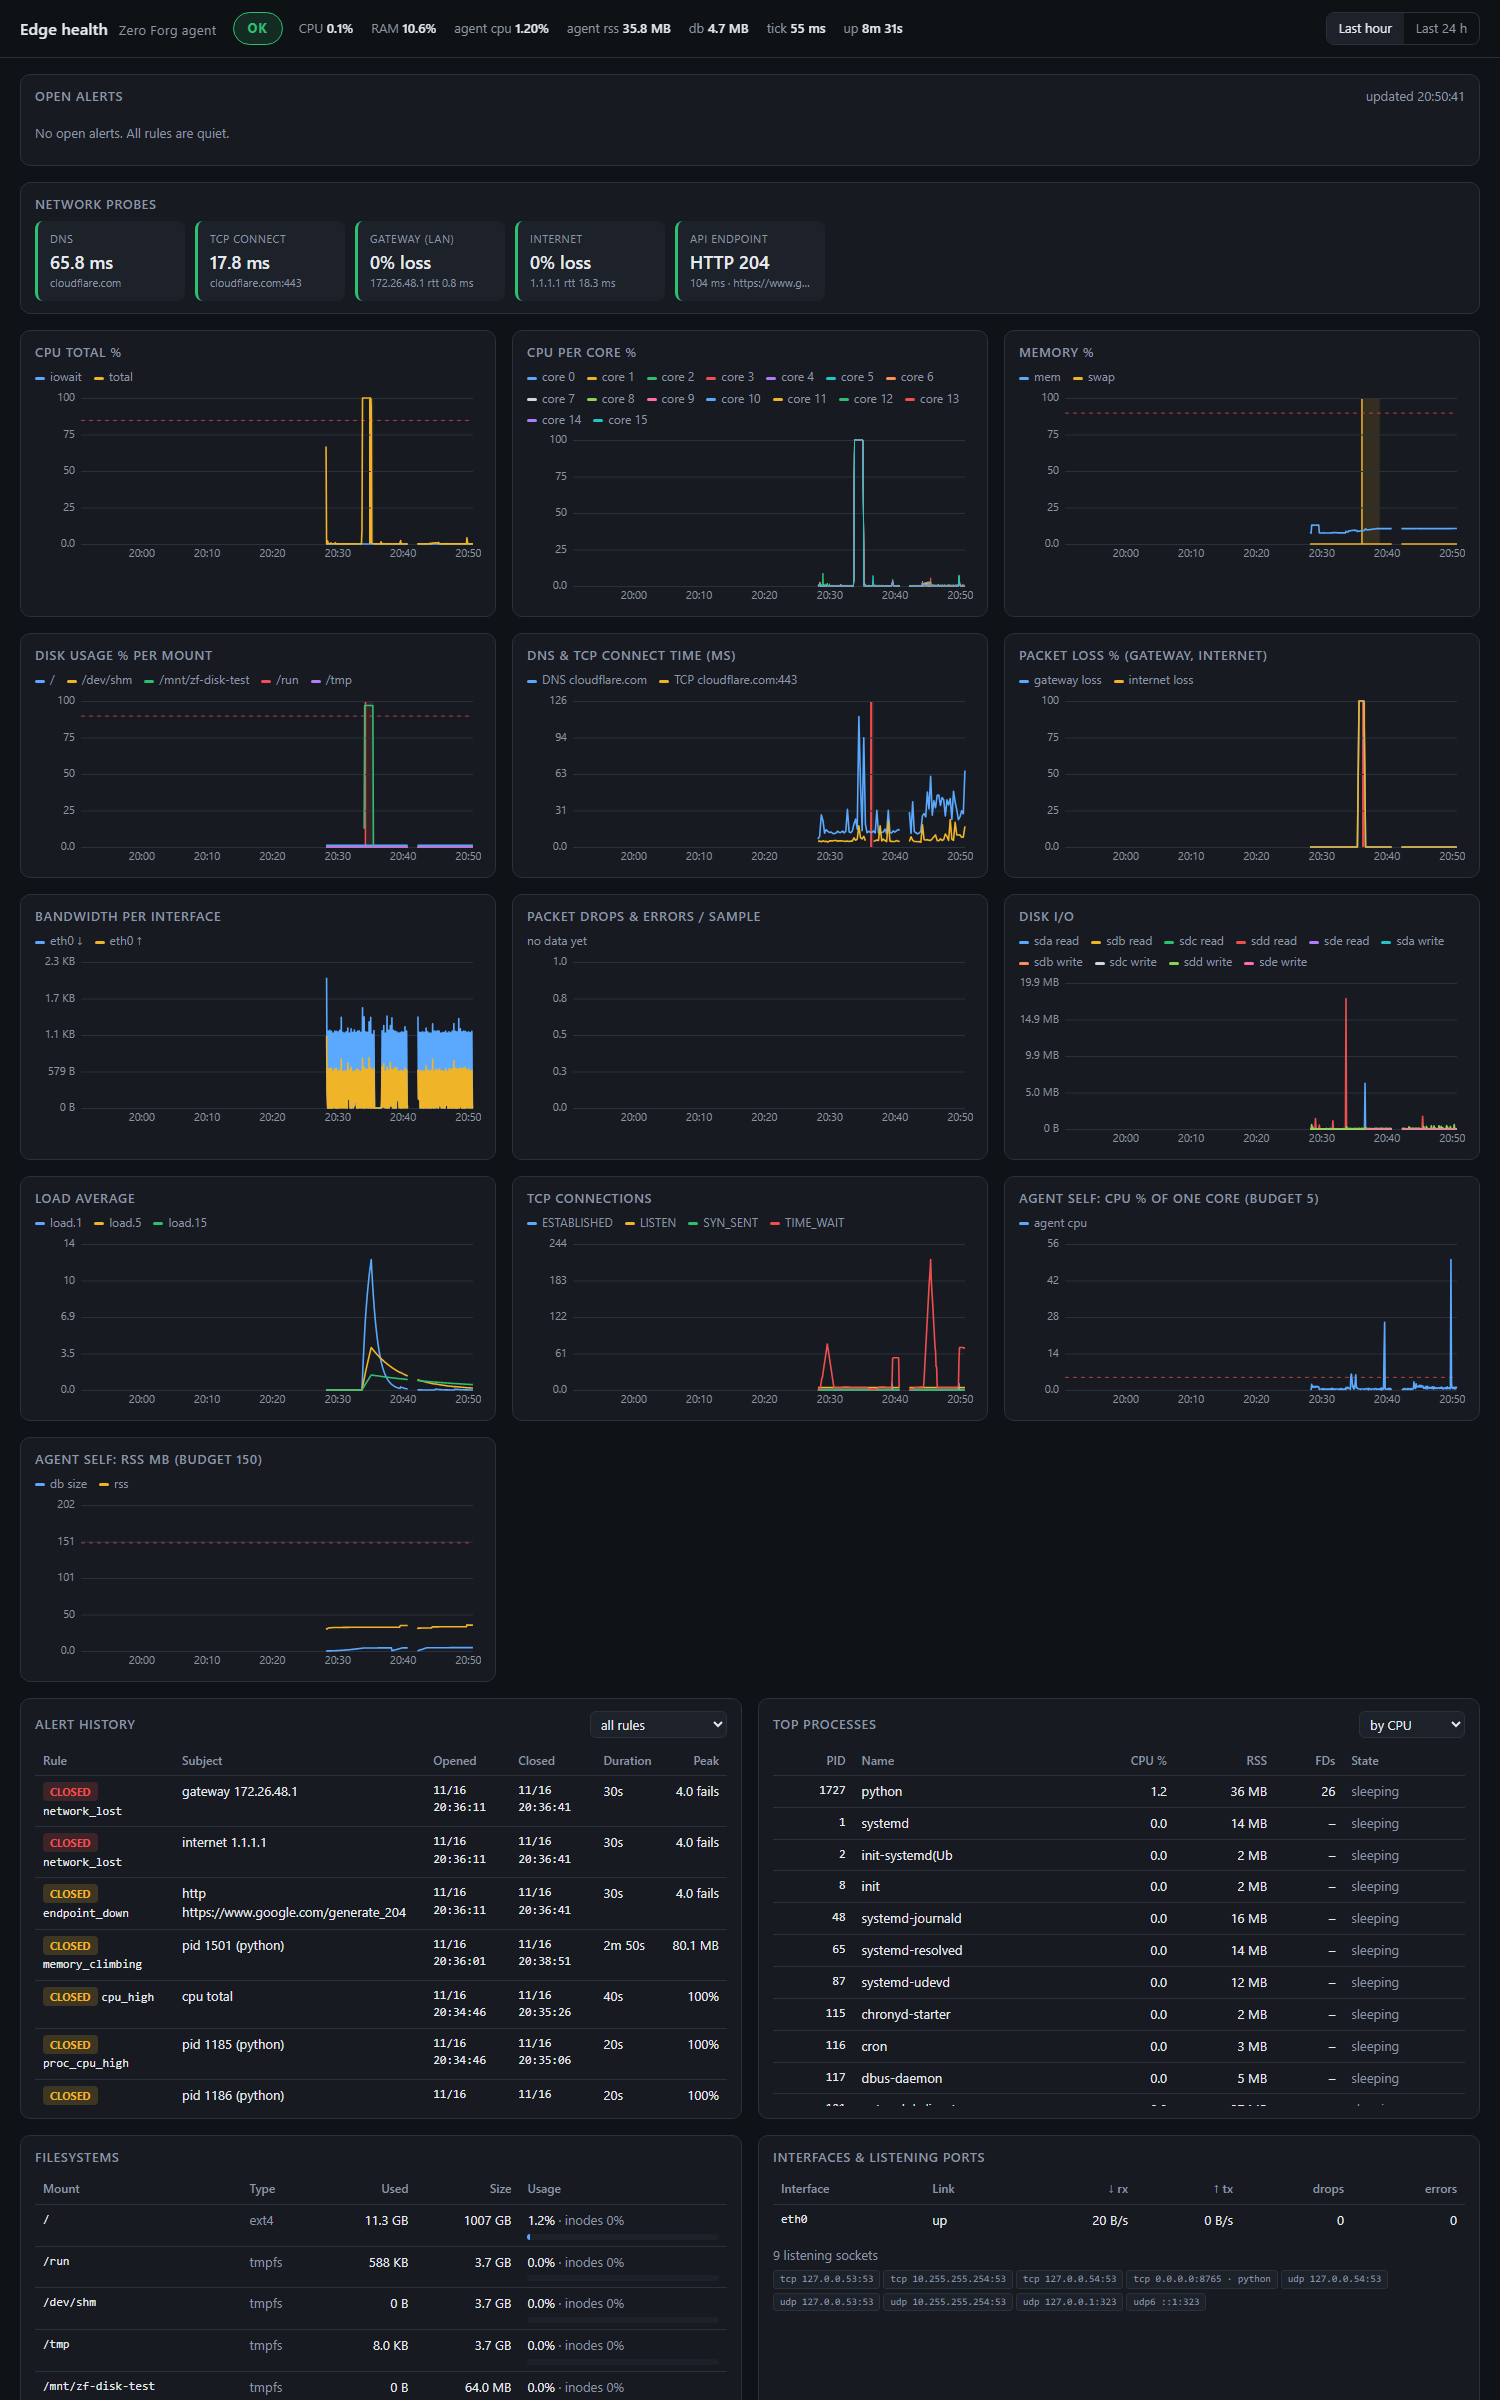
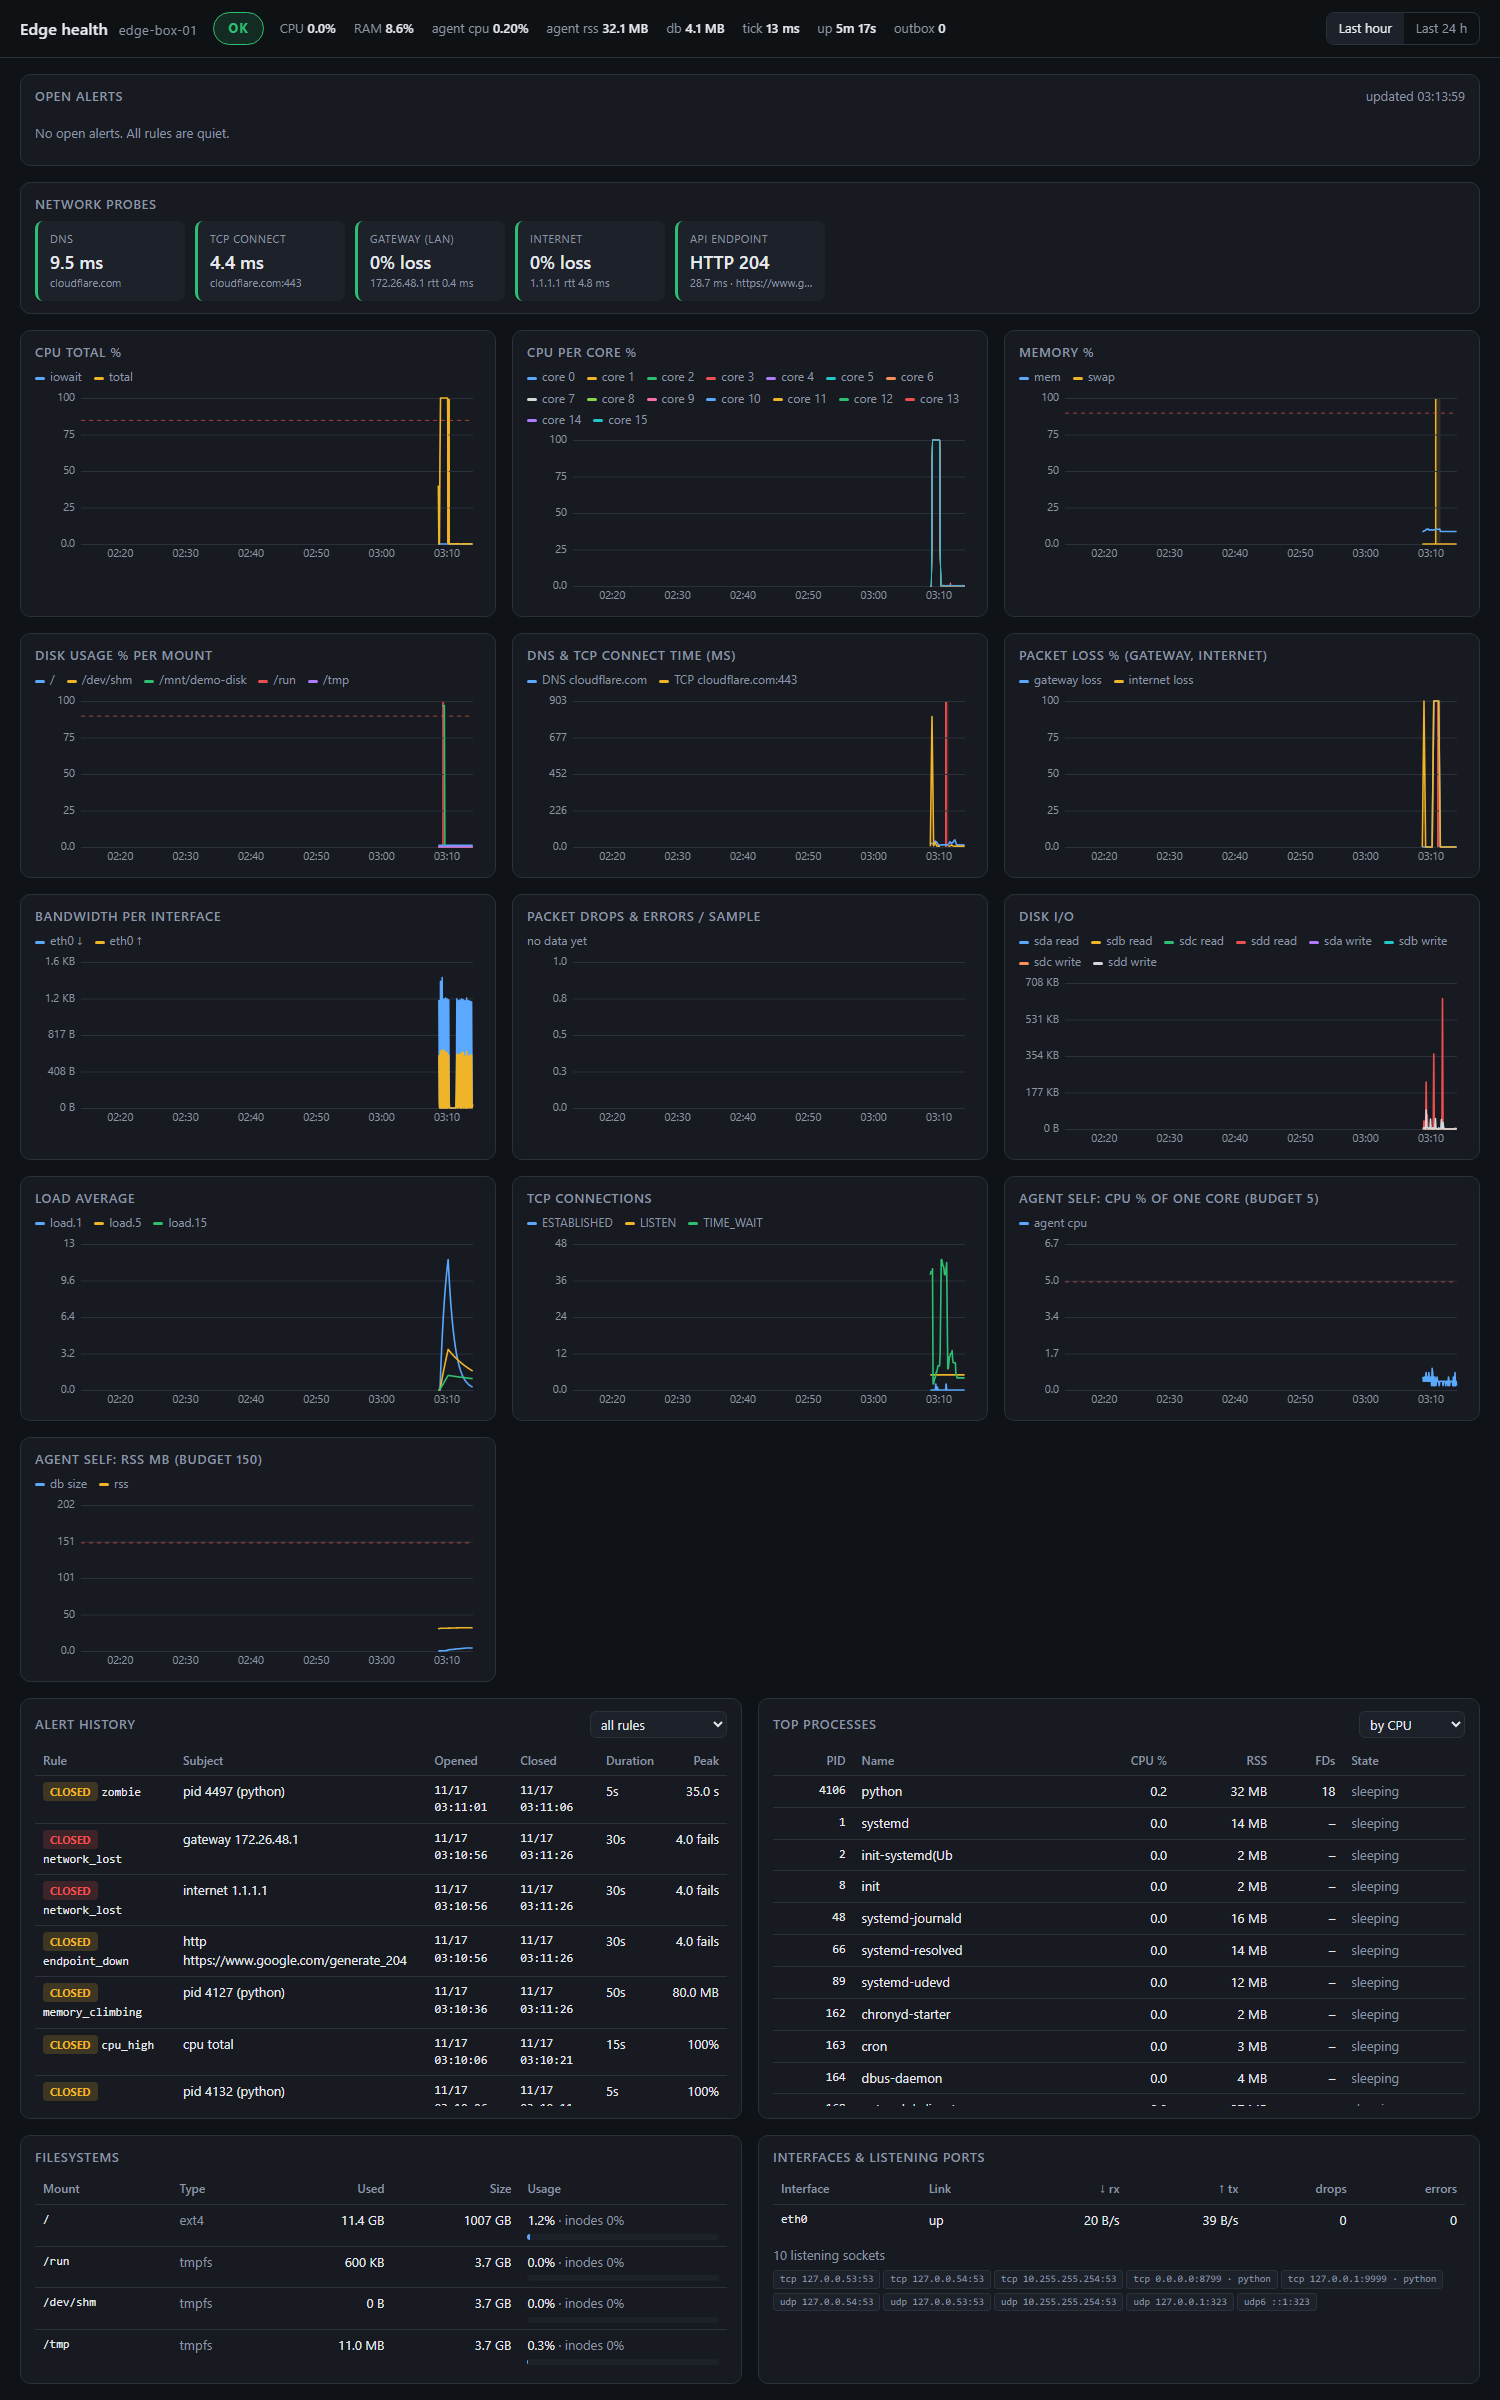
Rename project to Edge Health Agent
Neutral name in the README, dashboard, package metadata, systemd unit, User-Agent and demo scripts, with one line noting the project's origin as a take-home assignment. Demo config uses a fixed box name so screenshots do not show the hostname. Refreshed docs/dashboard.png.

diff --git a/healthagent/static/index.html b/healthagent/static/index.html
@@ -3,7 +3,7 @@
 <head>
 <meta charset="utf-8">
 <meta name="viewport" content="width=device-width, initial-scale=1">
-<title>Edge health · Zero Forg</title>
+<title>Edge Health Agent</title>
 <style>
   :root {
     --bg: #0f1216; --panel: #171b21; --panel2: #1d222a; --line: #2a313b; --text: #e6e9ee;
@@ -67,7 +67,7 @@
 </head>
 <body>
 <header>
-  <h1>Edge health <small id="host">Zero Forg agent</small></h1>
+  <h1>Edge health <small id="host">connecting…</small></h1>
   <span id="badge" class="badge b-down">CONNECTING</span>
   <div class="stats" id="stats"></div>
   <div class="spacer"></div>
@@ -328,7 +328,7 @@ async function refreshHealth() {
   $("badge").className = "badge b-" + h.status; $("badge").textContent = h.status.toUpperCase();
   document.title = `${h.status.toUpperCase()} · Edge health`;
   const a = h.agent, s = h.summary;
-  $("host").textContent = a.name || "Zero Forg agent";
+  $("host").textContent = a.name || "edge box";
   const stats = [
     ["CPU", s.cpu_pct != null ? s.cpu_pct.toFixed(1) + "%" : "–"],
     ["RAM", s.mem_pct != null ? s.mem_pct.toFixed(1) + "%" : "–"],

diff --git a/healthagent/__main__.py b/healthagent/__main__.py
@@ -15,7 +15,7 @@ PORT_IN_USE = {errno.EADDRINUSE, getattr(errno, "WSAEADDRINUSE", errno.EADDRINUS
 
 
 def main(argv: list[str] | None = None) -> int:
-    ap = argparse.ArgumentParser(prog="healthagent", description="Zero Forg edge health agent")
+    ap = argparse.ArgumentParser(prog="healthagent", description="Edge Health Agent")
     ap.add_argument("-c", "--config", help="TOML config file (defaults are used when omitted)")
     ap.add_argument("--db", help="override agent.db_path")
     ap.add_argument("--host", help="override api.host")

diff --git a/healthagent/probes.py b/healthagent/probes.py
@@ -111,7 +111,7 @@ def parse_ping(out: str, count: int, windows: bool) -> tuple[float, float | None
 
 
 def _http(url: str, timeout: float) -> tuple[float, int]:
-    req = urllib.request.Request(url, headers={"User-Agent": f"zeroforg-healthagent/{__version__}"})
+    req = urllib.request.Request(url, headers={"User-Agent": f"edge-health-agent/{__version__}"})
     t0 = time.perf_counter()
     try:
         with urllib.request.urlopen(req, timeout=timeout) as resp:

diff --git a/healthagent/notify.py b/healthagent/notify.py
@@ -90,7 +90,7 @@ class WebhookNotifier:
         body = row["payload"].encode()
         headers = {
             "Content-Type": "application/json",
-            "User-Agent": f"zeroforg-healthagent/{__version__}",
+            "User-Agent": f"edge-health-agent/{__version__}",
             "X-Healthagent-Event": row["event"],
             "X-Healthagent-Delivery": row["uid"],
         }

diff --git a/healthagent/__init__.py b/healthagent/__init__.py
@@ -1,3 +1,3 @@
-"""Zero Forg edge health agent."""
+"""Edge Health Agent."""
 
 __version__ = "1.0.0"

diff --git a/README.md b/README.md
@@ -1,7 +1,10 @@
-# Zero Forg edge health agent
+# Edge Health Agent
 
 One Python process that watches an unattended edge box and notices first when it
 fills its disk, leaks memory, loses a process or loses its uplink.
+
+*Originally built as a take-home assignment for Zero Forg. "The brief" below refers to
+that assignment.*
 
 It samples the machine every 5 s, probes the network every 15 s, keeps 7 days of
 history in SQLite, raises alerts on fixed rules, and serves everything over an HTTP
@@ -100,7 +103,7 @@ started.
 | 1 | Busy loop on all 16 cores for 80 s | `demo/cpu_burn.py` | **+69.7 s** (never before +60) | +99.7 s | `cpu total`, peak 100 % |
 | 2a | Allocate RAM to 93 %, hold 25 s | `demo/mem_pressure.py` | +9.8 s (allocation took 8 s) | +34.8 s, right after release | `ram`, peak 93.4 % |
 | 2b | Leak 8 MB every 10 s | `demo/leak.py` | 104 s after the leak started | 3 samples after growth stopped | `pid 560 (python)`, +80 MB |
-| 3 | Fill a 64 MB tmpfs to 97 % | `demo/fill_disk.sh` | next sample (5 s) | next sample after cleanup | `/mnt/zf-disk-test`, peak 96.9 % |
+| 3 | Fill a 64 MB tmpfs to 97 % | `demo/fill_disk.sh` | next sample (5 s) | next sample after cleanup | `/mnt/demo-disk`, peak 96.9 % |
 | 4 | `kill -9` the watched process | `demo/watched_service.py` | 2.7 s after the kill | when it was restarted | `camera-sim pid 589 (python3)` |
 | 5 | Interface down for 75 s | `demo/net_toggle.sh` | +33.9 s (3rd failed round) | +78.9 s (first good round) | `gateway 172.26.48.1`, `internet 1.1.1.1`, peak 5 failures |
 | + | Zombie child for 45 s | `demo/zombie.py` | after 35 s in state Z | when reaped | `pid 998 (python)` |

diff --git a/docs/DEMO.md b/docs/DEMO.md
@@ -12,7 +12,7 @@ Any Linux machine you own: a VM, a Raspberry Pi, or WSL2 Ubuntu. You need root o
 for the tmpfs mount and the network toggle.
 
 ```bash
-cd zeroforg-agent
+cd Edge_Health_Agent
 python3 -m venv .venv && .venv/bin/pip install -e ".[dev]"
 rm -f demo.db*                                  # start with a clean history
 ```
@@ -49,7 +49,7 @@ and close below also shows up in T5, signed and in order.
 | 2:10 | `.venv/bin/python demo/mem_pressure.py --target 93 --hold 30` | Memory chart crosses the 90 % line | `ram_high` opens within one sample (5 s) |
 | 2:50 | It releases memory | | `ram_high` closes on the first sample < 85 % |
 | 2:55 | `python3 demo/leak.py --mb 8 --every 10 &` | Note the PID it prints. It keeps running in the background | |
-| 3:05 | `sudo bash demo/fill_disk.sh up` then `sudo bash demo/fill_disk.sh fill 95` | Small tmpfs, not the real disk. Filesystems table shows it at 97 % | `disk_high` on `/mnt/zf-disk-test` within 5 s |
+| 3:05 | `sudo bash demo/fill_disk.sh up` then `sudo bash demo/fill_disk.sh fill 95` | Small tmpfs, not the real disk. Filesystems table shows it at 97 % | `disk_high` on `/mnt/demo-disk` within 5 s |
 | 3:40 | `sudo bash demo/fill_disk.sh clean` | | `disk_high` closes |
 | 3:45 | T5: Ctrl-C | "The central service is unreachable now" | |
 | 3:50 | `kill -9 $(pgrep -f watched_service.py)` | Header shows `outbox 1 (retrying)` | `process_died` "camera-sim pid N (python3)" within 5 s |

diff --git a/plan.md b/plan.md
@@ -1,4 +1,4 @@
-# Plan: Zero Forg edge health agent
+# Plan: Edge Health Agent
 
 ## 1. Goal
 
